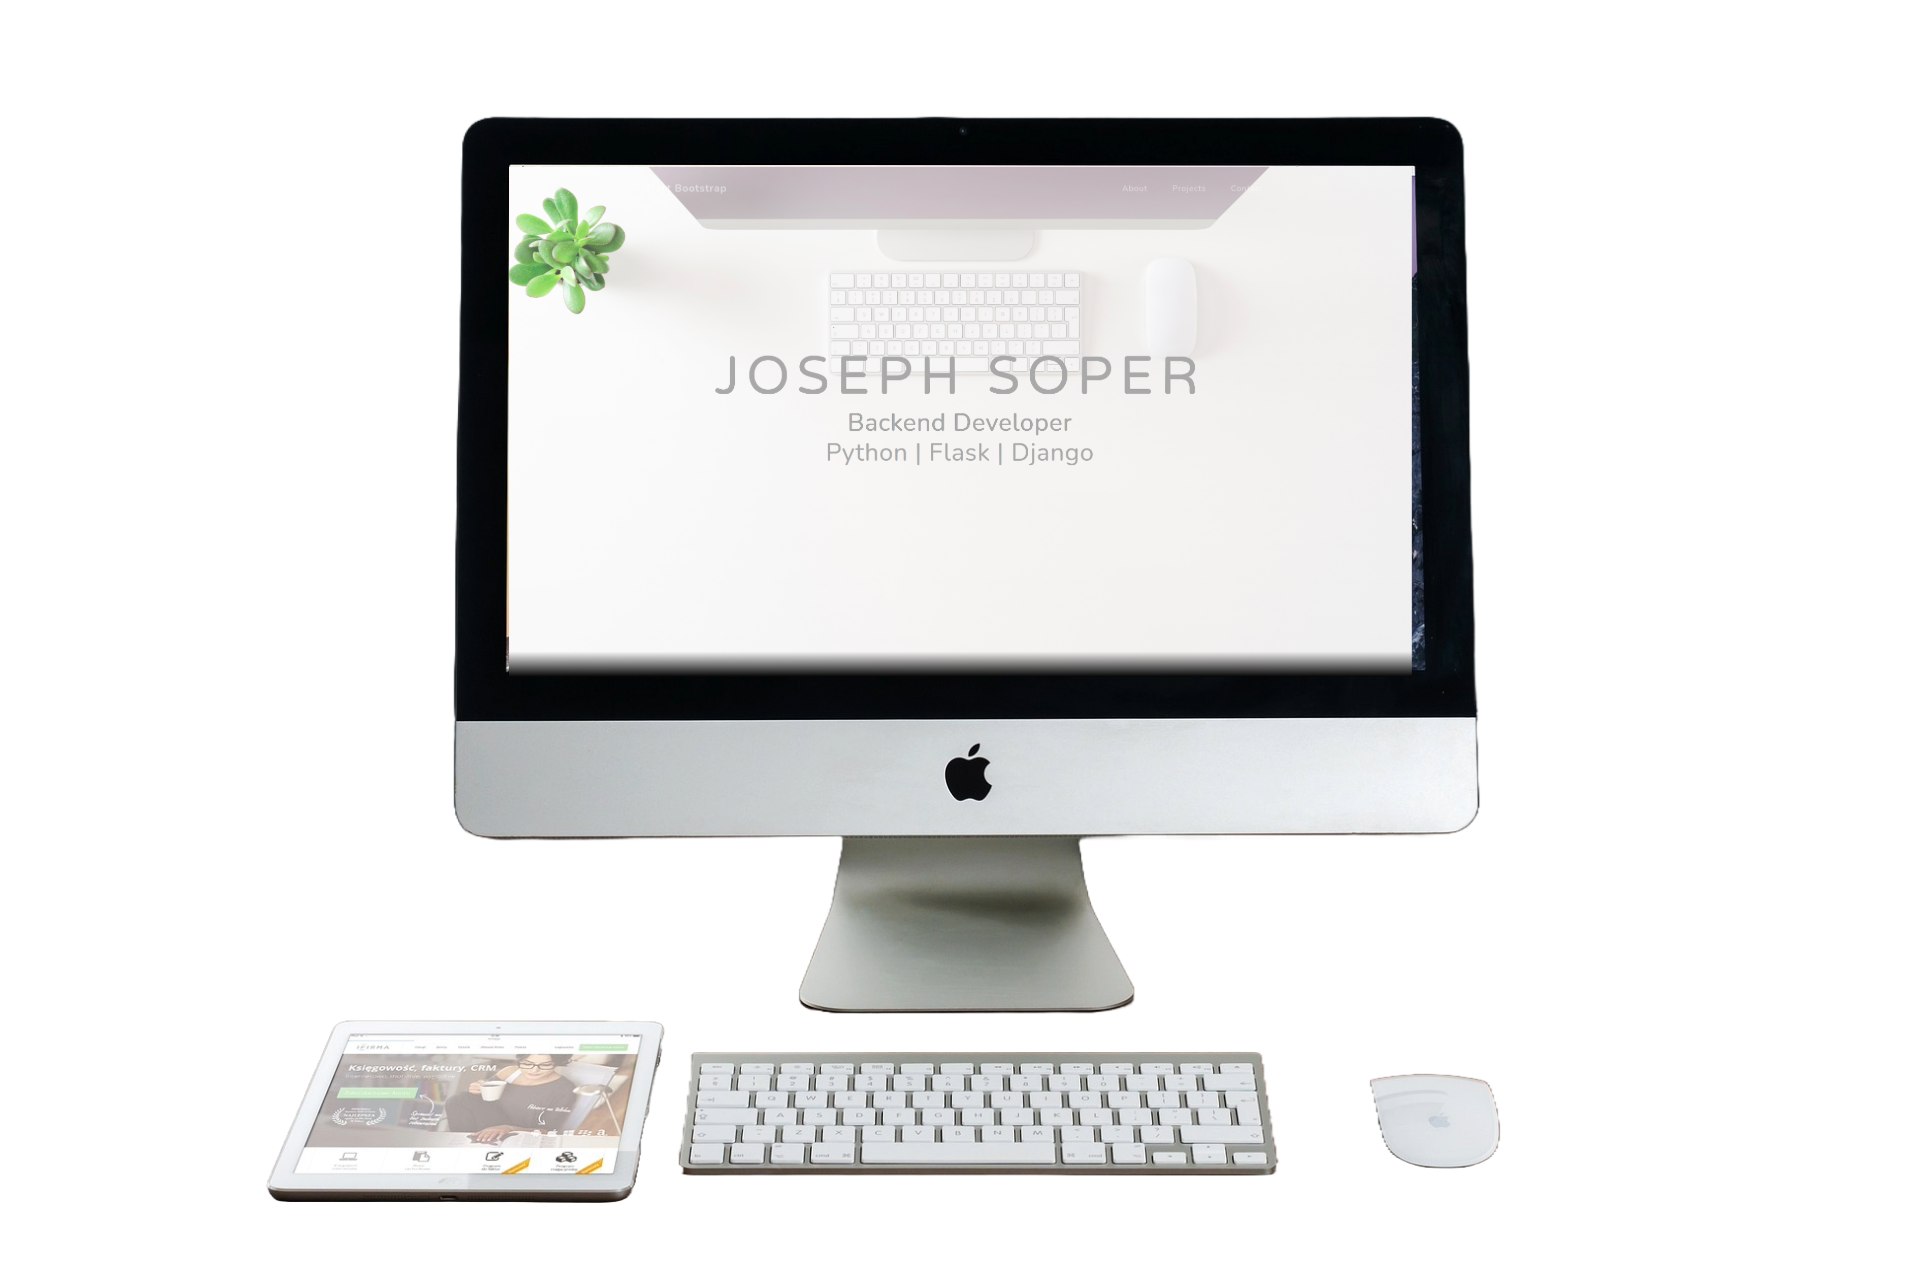
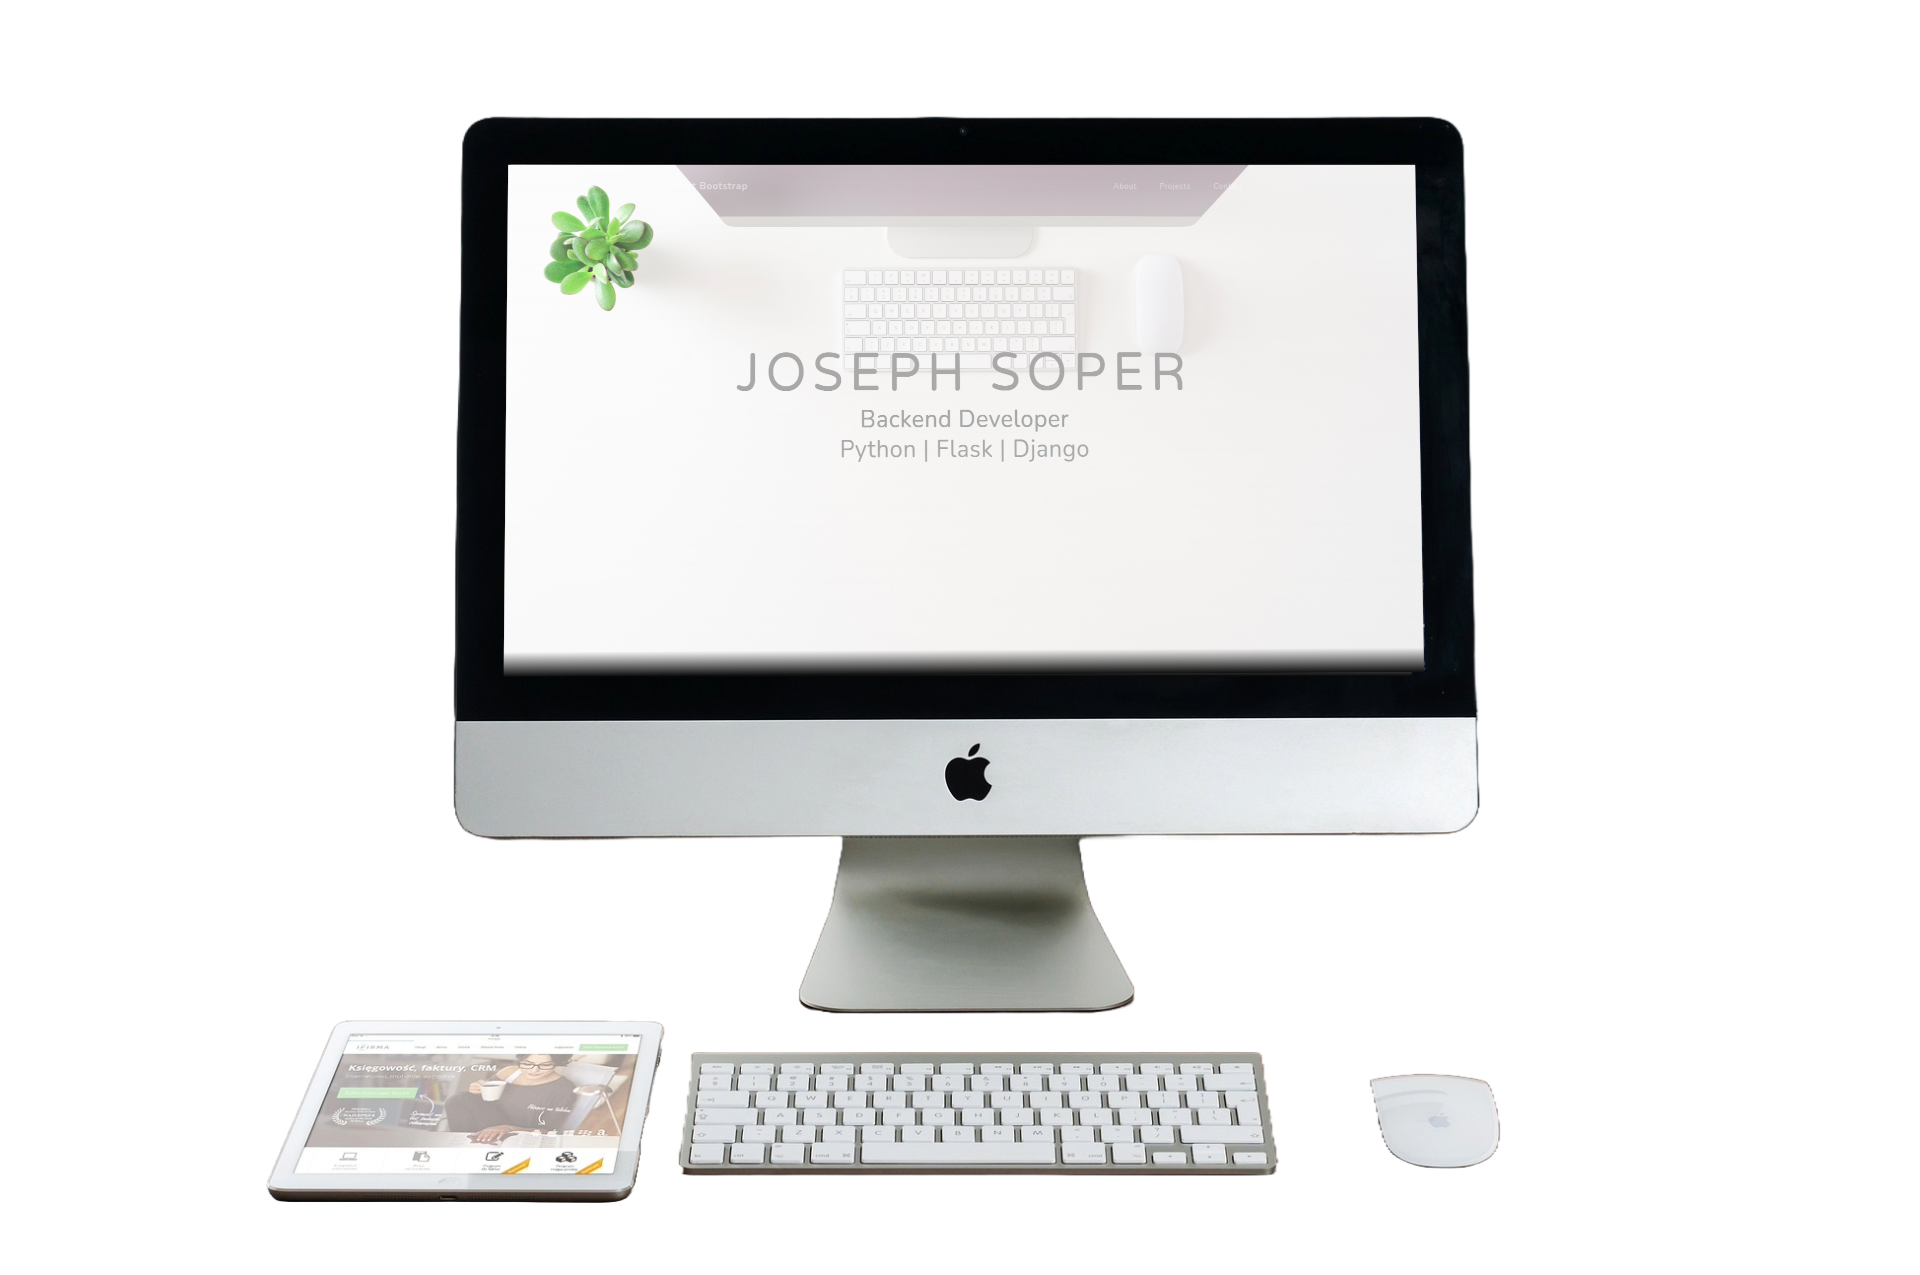
Hero image and text is complete

diff --git a/templates/index.html b/templates/index.html
@@ -36,7 +36,7 @@
         <!-- Masthead-->
         <header class="masthead">
             <div class="container px-4 px-lg-5 d-flex h-100 align-items-center justify-content-center">
-                <div class="d-flex justify-content-center">
+                <div class="d-flex header-fix justify-content-center">
                     <div class="text-center">
                         <h1 class="mx-auto my-0 text-uppercase">Joseph Soper</h1>
                         <h2 class="text mx-auto mt-2 mb-5">Backend Developer<br>Python | Flask | Django</h2>

diff --git a/static/css/styles.css b/static/css/styles.css
@@ -561,6 +561,14 @@ progress {
   }
 }
 
+.header-fix {
+  position: absolute;
+  display: flex !important;
+  bottom: 13%;
+  left: 50%;
+  transform: translateX(-50%);
+}
+
 .list-unstyled {
   padding-left: 0;
   list-style: none;
@@ -643,6 +651,7 @@ progress {
   padding-left: calc(var(--bs-gutter-x) * 0.5);
   margin-right: auto;
   margin-left: auto;
+  bottom: 25%;
 }
 
 @media (min-width: 576px) {
